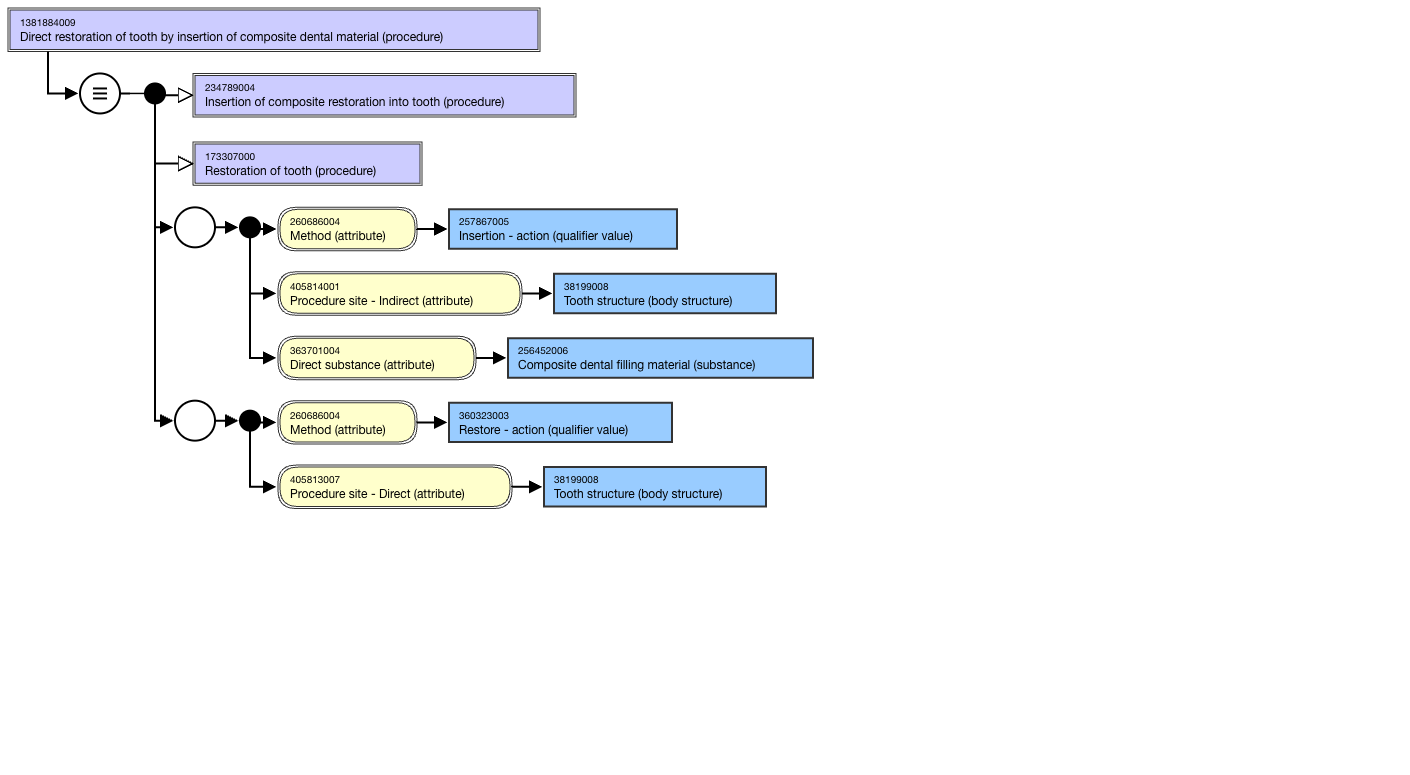
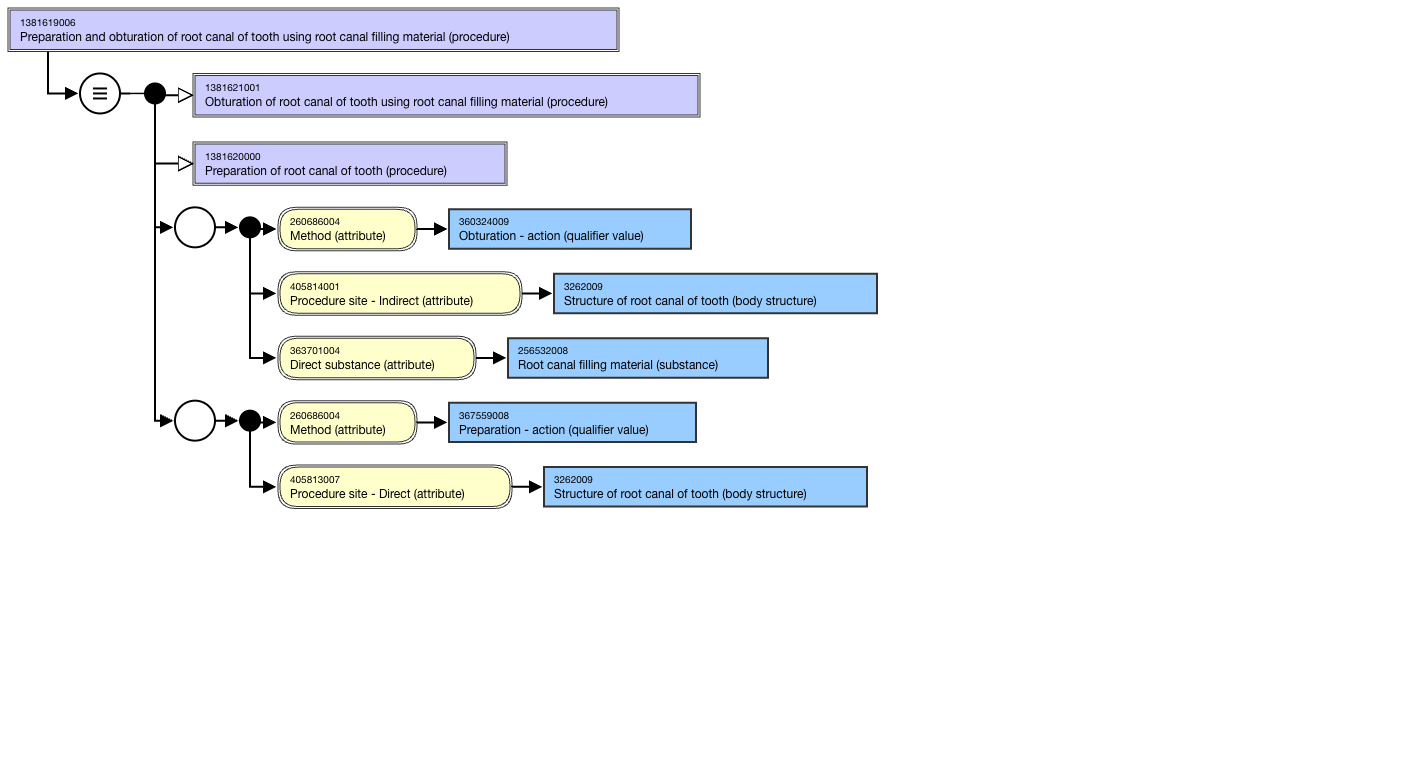
GITBOOK-642: https://projects.jira.snomed.org/browse/WIPEDGUIDE-432

diff --git a/readme/authoring/domain-specific-modeling/body-structure/index/naming-convention-for-cells-expressing-antigens.md b/readme/authoring/domain-specific-modeling/body-structure/index/naming-convention-for-cells-expressing-antigens.md
@@ -1,0 +1,47 @@
+# Naming Convention for Cells Expressing Antigens
+
+## Fully specified name
+
+Order antigens numerically first.
+
+* For example,
+  * 732279009 |Cell positive for CD3 antigen and positive for CD4 antigen (cell)|
+  * NOT
+  * Cell positive for CD4 antigen and positive for CD3 antigen
+
+Named antigens follow in alphabetical order.
+
+* For example,
+  * 1373093007 |Cell positive for CD10 antigen and positive for FMC7 antigen (cell)|
+  * NOT
+  * Cell positive for FMC7 antigen and positive for CD10 antigen
+
+Include “positive”/”negative” for each antigen individually.  Do not group by positive or negative expressions.
+
+* For example,
+  * 1373277009 |Cell positive for CD4 antigen and negative for CD25 antigen and positive for CD127 antigen (cell)|
+  * NOT
+  * Cell positive for CD4 and CD127 antigen and negative for CD127 antigen,
+
+## Preferred Term
+
+The PT includes the “shorthand" expression. This terming is commonly used in the domain.
+
+* For example,
+  * 1373277009 |Cell positive for CD4 antigen and negative for CD25 antigen and positive for CD127 antigen (cell)| has a PT of “CD4+CD25-CD127+ cell”
+  * 1373093007 |Cell positive for CD10 antigen and positive for FMC7 antigen (cell)| has a PT of “CD10+FMC7+ cell”
+
+## Additional descriptions
+
+Include an acceptable description of the FSN minus the semantic tag.
+
+If appropriate, include an acceptable description with the expansion of a gene name, and include the word _antigen_.
+
+* For example,
+  * ![](<../../../../../.gitbook/assets/image (183).png>)
+
+Note:  _Not all existing content conforms to this guidance._&#x20;
+
+{% hint style="info" %}
+See also _Modeling_ _Cells Expressing Antigens_
+{% endhint %}

diff --git a/SUMMARY.md b/SUMMARY.md
@@ -57,9 +57,11 @@
         * [Anatomical Structure Naming Conventions](readme/authoring/domain-specific-modeling/body-structure/index/README.md)
           * [Naming Convention for SEP Model](readme/authoring/domain-specific-modeling/body-structure/index/naming-convention-for-sep-model.md)
           * [Naming Convention for Digits of Hand and Foot](readme/authoring/domain-specific-modeling/body-structure/index/naming-convention-for-digits-of-hand-and-foot.md)
+          * [Naming Convention for Cells Expressing Antigens](readme/authoring/domain-specific-modeling/body-structure/index/naming-convention-for-cells-expressing-antigens.md)
         * [Anatomical Structure Modeling](readme/authoring/domain-specific-modeling/body-structure/index-1/README.md)
           * [Body parts and regions](readme/authoring/domain-specific-modeling/body-structure/index-1/body-parts-and-regions.md)
           * [Cardiovascular System](readme/authoring/domain-specific-modeling/body-structure/index-1/cardiovascular-system.md)
+          * [Cell](readme/authoring/domain-specific-modeling/body-structure/index-1/cell.md)
           * [Digestive System](readme/authoring/domain-specific-modeling/body-structure/index-1/digestive-system.md)
           * [Ear](readme/authoring/domain-specific-modeling/body-structure/index-1/ear.md)
           * [Endocrine System](readme/authoring/domain-specific-modeling/body-structure/index-1/endocrine-system.md)

diff --git a/readme/authoring/domain-specific-modeling/body-structure/index-1/cell.md b/readme/authoring/domain-specific-modeling/body-structure/index-1/cell.md
@@ -1,0 +1,23 @@
+# Cell
+
+## Modeling of cells expressing antigens
+
+As the cell hierarchy is primitive, careful attention is needed to manually identify and add the appropriate supertypes.
+
+Undifferentiated cell concepts with a single positive or negative antigen expression (e.g. cell vs. lymphocyte or blast) are immediate subtypes of 362837007 |Entire cell (cell)|.
+
+* For example,
+  * 725316009 |Cell positive for CD1 antigen (cell)| Is a 362837007 |Entire cell (cell)|
+
+Undifferentiated cell concepts with multiple positive or negative antigen expressions should be subtypes of the appropriate cell concepts with those same single and combinations of positive/negative antigen expressions.
+
+![](../../../../../.gitbook/assets/unknown.png)
+
+Differentiated cells concepts with positive or negative antigen expression(s) should be subtypes of both: a) the differentiated cell concept of differentiation; and b) the appropriate undifferentiated cell concept with the appropriate positive or negative antigen expression(s).
+
+* For example,
+  * 117507002 |FMC7+ lymphocyte (cell)| should be a descendant of 56972008 |Lymphocyte (cell)| and also 1373072009 |Cell positive for FMC7 antigen (cell)|.
+
+{% hint style="info" %}
+See also _Naming Convention for Cells Expressing Antigens_
+{% endhint %}
